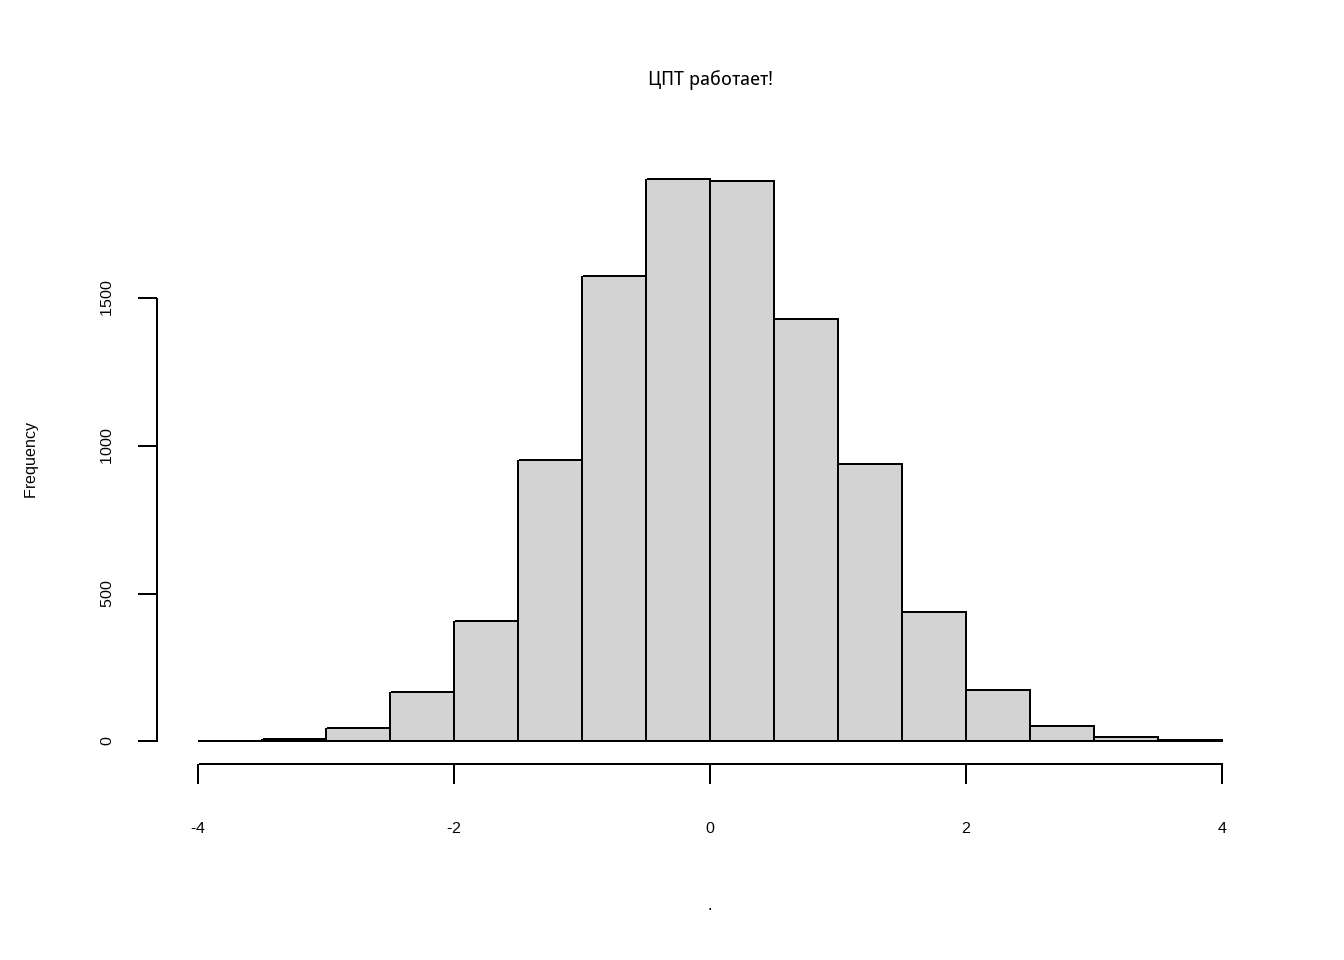
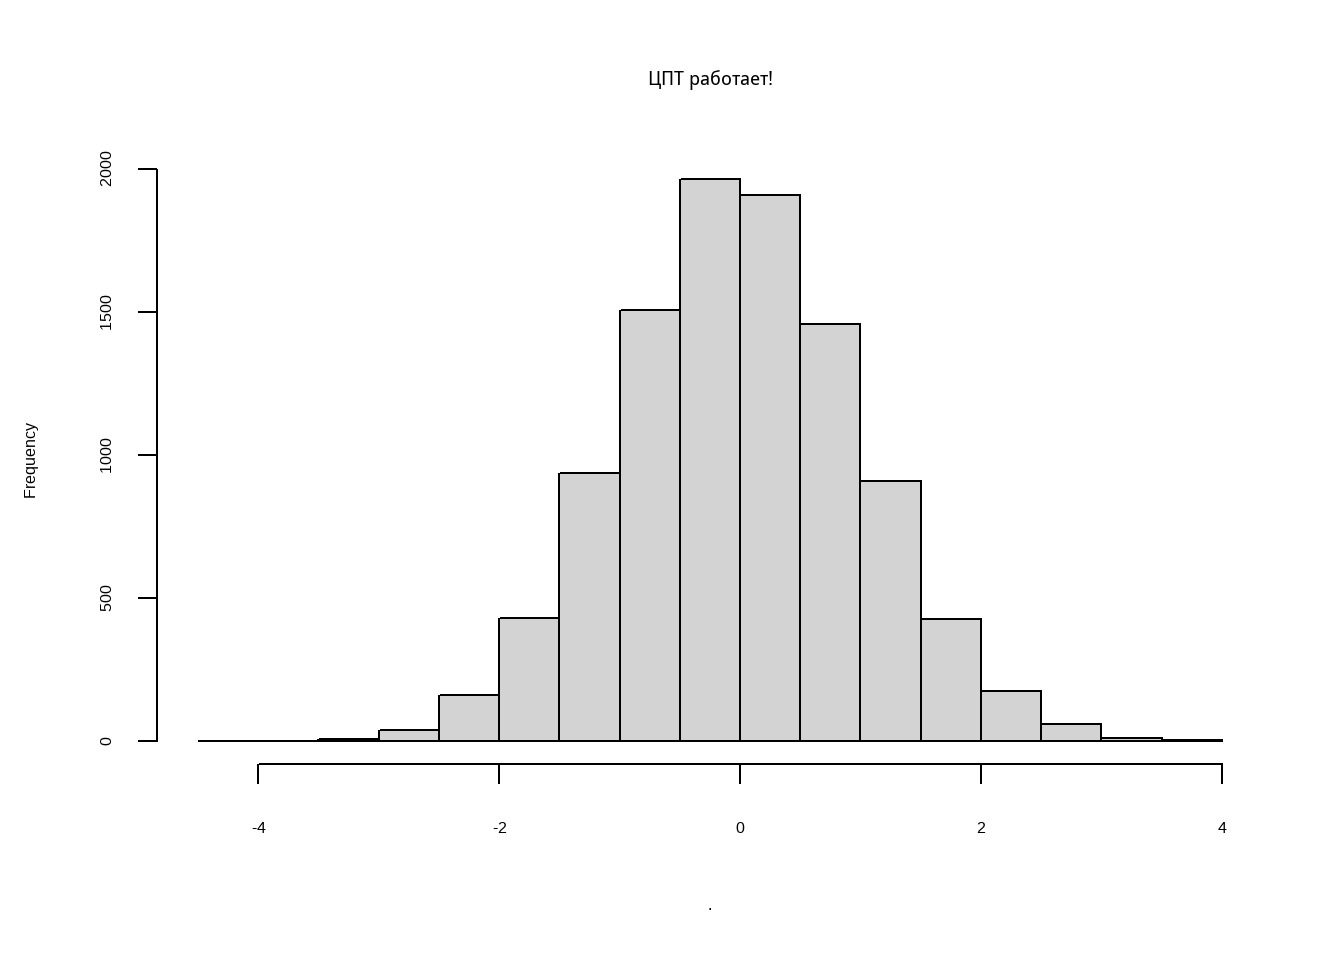
Поправки к лекции1

diff --git a/content/post/Lecture-1/Lec-1.md b/content/post/Lecture-1/Lec-1.md
@@ -13,7 +13,7 @@ tags: ['Статистика', 'Теорвер']
 * Вероятности, распределения.
 * Независимость.
 * Условные вероятности, условные распределения.
-* Культурный минимум: ЦПТ и ЗБЧ.
+* ЦПТ и ЗБЧ.
 * Бутстрап.
 * Кейс: школьный эксперимент.
 
@@ -78,14 +78,7 @@ purrr::rbernoulli(5, p = 0.7)
 ```
 
 ```
-## Warning: `rbernoulli()` was deprecated in purrr 1.0.0.
-## This warning is displayed once every 8 hours.
-## Call `lifecycle::last_lifecycle_warnings()` to see where this warning was
-## generated.
-```
-
-```
-## [1] TRUE TRUE TRUE TRUE TRUE
+## [1]  TRUE  TRUE  TRUE FALSE FALSE
 ```
 
 ### Работает ли ЗБЧ?
@@ -95,7 +88,7 @@ purrr::rbernoulli(5, p = 0.7)
 dist_kisses <- function(n,p,k){ # Создадим функцию
   means <- c() # means - пустой вектор
   for (i in 1:k){ # Мы k раз
-    means[i] <- rbinom(n = n, prob = p, size = 1) %>% mean() # добавляем в вектор means долю успехов 
+    means[i] <- rbinom(n = n, prob = p, size = k) %>% mean() # добавляем в вектор means долю успехов 
   } # в n испытаниях по схеме Бернулли.
   return(means) # и возвращаем вектор means с n наблюдениями
 }
@@ -107,7 +100,7 @@ dist_kisses <- function(n,p,k){ # Создадим функцию
 ```r
 n = 100
 p = 0.7
-k = 500
+k = 1000
 
 dist_kisses(n,p,k) %>% hist(main = 'Histogram of Kisses')
 ```
@@ -122,7 +115,7 @@ dist_kisses(n,p,k) %>% mean()
 ```
 
 ```
-## [1] 0.69788
+## [1] 700.0196
 ```
 
 Давайте докажем, что при росте `\(k\)` среднее отклонение оценки параметра `\(p\)` от его реального значения **уменьшается**
@@ -140,8 +133,8 @@ error_mean <- function(n,p,k){
 
 
 ```r
-convergence_proof <- error_mean(40, 0.7, 500) # проведём эксперимент с поцелуями 50 девушек/парней 1000 раз.
-mean(convergence_proof[100:200]) <= mean(convergence_proof[400:500]) # Чем больше экспериментов мы проводим - тем выше точность.
+convergence_proof <- error_mean(40, 0.7, 1000) # проведём эксперимент с поцелуями 50 девушек/парней 1000 раз.
+mean(convergence_proof[100:200]) <= mean(convergence_proof[900:1000]) # Чем больше экспериментов мы проводим - тем выше точность.
 ```
 
 ```
@@ -264,12 +257,12 @@ descdist(incomes_subsamples, discrete = F, boot = 500)
 ```
 ## summary statistics
 ## ------
-## min:  -3.505253   max:  3.987755 
-## median:  -0.01403362 
-## mean:  9.940026e-16 
+## min:  -4.343044   max:  3.977849 
+## median:  -0.01524339 
+## mean:  8.315866e-16 
 ## estimated sd:  1 
-## estimated skewness:  0.07531198 
-## estimated kurtosis:  2.985613
+## estimated skewness:  0.06920769 
+## estimated kurtosis:  3.035462
 ```
 Дейстаительно, наш результат - нормальное распределение с параметрами (0,1). Чтобы определить параметры распределения, воспользуемся функцией `fitdist`. По умолчанию она максимизирует функцию правдоподобия при условии реализовавшихся данных. Этот метод мы изучим чуть позже, пока отметим, что в нашем случае (нормальное распределение) идея в следующем:
 
@@ -285,7 +278,7 @@ fit_normal %>% summary()
 ## Fitting of the distribution ' norm ' by maximum likelihood 
 ## Parameters : 
 ##          estimate  Std. Error
-## mean 9.940026e-16 0.009999500
+## mean 8.315866e-16 0.009999500
 ## sd   9.999500e-01 0.007070682
 ## Loglikelihood:  -14188.89   AIC:  28381.77   BIC:  28396.19 
 ## Correlation matrix:
@@ -315,8 +308,8 @@ bootdist(fit_normal) %>%
 ```
 ## Parametric bootstrap medians and 95% percentile CI 
 ##            Median        2.5%     97.5%
-## mean 0.0000382966 -0.01889678 0.0196448
-## sd   1.0000356277  0.98571604 1.0146433
+## mean -0.000134218 -0.01927927 0.0216554
+## sd    0.999672023  0.98570740 1.0147971
 ```
 
 500 подвыборок с возвращением. Для каждой подвыборки счиатем статистику среднего и стандартного отклонения, получаем доваерительные интервалы.
@@ -438,7 +431,7 @@ sum(rp_result > mean(treatment$growth_end) - mean(notreatment$growth_end)) / 100
 ```
 
 ```
-## [1] 0.026
+## [1] 0.022
 ```
 
 Значим ли такой результат?
